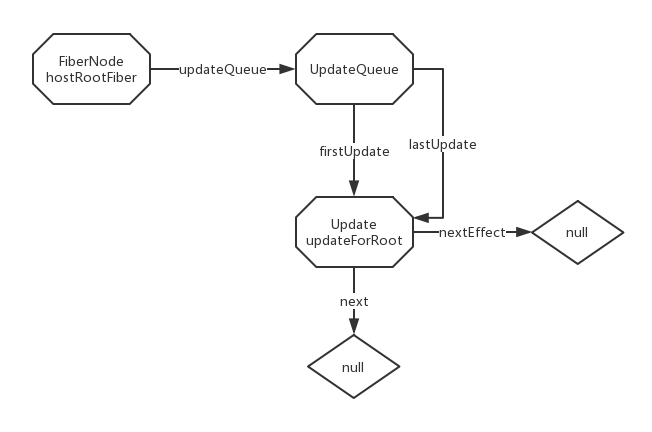
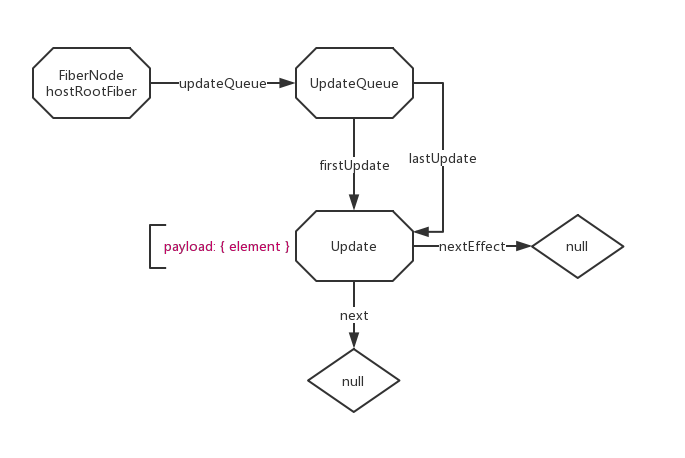
react: add itpt of ReactUpdate & ReactUpdateQueue

Changed region(s): [[0.0307, 0.0602, 0.9509, 0.6319], [0.4294, 0.662, 0.6135, 0.9329]]

diff --git a/07.React 勘测笔记 IV - ReactUpdateQueue.md b/07.React 勘测笔记 IV - ReactUpdateQueue.md
@@ -1,10 +1,197 @@
 # React 勘测笔记 IV - ReactUpdateQueue
 
-:dolphin: [ReactUpdateQueue.js](https://github.com/TAUnionOtto/react-interpretation/blob/master/packages、react-reconciler、src、ReactUpdateQueue.js)
+:dolphin: [ReactUpdateQueue.js](https://github.com/TAUnionOtto/react-interpretation/blob/master/packages/react-reconciler/src/ReactUpdateQueue.js)
 
 ## ReactUpdate 的结构
 
-:dolphin: [type Update<State>](https://github.com/TAUnionOtto/react-interpretation/blob/master/packages/react-reconciler/src/ReactFiberReconciler.js#L109)
+:dolphin: [type Update<State>](https://github.com/TAUnionOtto/react-interpretation/blob/master/packages/react-reconciler/src/ReactUpdateQueue.js#L109)
 
 ## ReactUpdateQueue 的结构
-:dolphin: [type ReactUpdateQueue](https://github.com/TAUnionOtto/react-interpretation/blob/master/packages/react-reconciler/src/ReactFiberReconciler.js#L115)
+
+:dolphin: [type ReactUpdateQueue](https://github.com/TAUnionOtto/react-interpretation/blob/master/packages/react-reconciler/src/ReactUpdateQueue.js#L115)
+
+## 一般情况下的调用过程
+
+单次 `ReactDOM.render` 和 `setState` 调用 UpdateQueue 的流程大致相同，都是：
+
+```js
+createUpdate -> enqueueUpdate -> processUpdateQueue -> commitUpdateQueue
+```
+
+其中各方法调用的时机和两者生成的 update 都不尽相同，具体有兴趣的可以自行打断点查阅。
+
+`setState` 触发的流程其实有两种情况：
+
+- DOM event listener 触发的 `setState`
+
+  由 `setState` 调用 create 和 enqueue；由 listener 调用 processUpdateQueue。
+
+- setTimeout 触发的 `setState`
+
+  由 `setState` 调用 create 和 enqueue；且由 `setState` 调用 processUpdateQueue。
+
+这两种流程下，如果传递了 `setState` 的第二个参数（即执行完成后的回调），则最后会调用 commitUpdateQueue。
+
+<!-- ### ReactDOM.render
+
+- ReactDOM.render
+- :dolphin: [ReactFiberReconciler.scheduleRootUpdate](https://github.com/TAUnionOtto/react-interpretation/blob/master/packages/react-reconciler/src/ReactFiberReconciler.js#L115)
+  - createUpdate
+  - enqueueUpdate
+    - createUpdateQueue
+  - :dolphin: [ReactFiberReconciler.js @function scheduleWork](https://github.com/TAUnionOtto/react-interpretation/blob/master/packages/react-reconciler/src/ReactFiberReconciler.js#L1855)
+  - call to :dolphin: [ReactFiberReconciler.js @function performWorkOnRoot](https://github.com/TAUnionOtto/react-interpretation/blob/master/packages/react-reconciler/src/ReactFiberReconciler.js#L2382)
+    - :dolphin: [ReactFiberReconciler.js @function renderRoot](https://github.com/TAUnionOtto/react-interpretation/blob/master/packages/react-reconciler/src/ReactFiberReconciler.js#L1223)
+      - call to :dolphin: [ReactFiberBeginWork.beginWork](https://github.com/TAUnionOtto/react-interpretation/blob/master/packages/react-reconciler/src/ReactFiberBeginWork.js#L1893)
+      - call :dolphin: [ReactFiberBeginWork.js @function updateHostRoot](https://github.com/TAUnionOtto/react-interpretation/blob/master/packages/react-reconciler/src/ReactFiberBeginWork.js#L838)
+        - processUpdateQueue
+    - :dolphin: [ReactFiberReconciler.js @function completeRoot](https://github.com/TAUnionOtto/react-interpretation/blob/master/packages/react-reconciler/src/ReactFiberReconciler.js#L2459)
+      - call to commitUpdateQueue
+
+### setTimeout 中的 setState
+
+- Component.prototype.setState
+- :dolphin: [ReactFiberClassComponent.js @classComponentUpdater.enqueueSetState](https://github.com/TAUnionOtto/react-interpretation/blob/master/packages/react-reconciler/src/ReactFiberClassComponent.js#L183)
+  - createUpdate
+  - enqueueUpdate
+    - createUpdateQueue
+  - :dolphin: [ReactFiberReconciler.js @function scheduleWork](https://github.com/TAUnionOtto/react-interpretation/blob/master/packages/react-reconciler/src/ReactFiberReconciler.js#L1855)
+  - :dolphin: [ReactFiberReconciler.js @function requestWork](https://github.com/TAUnionOtto/react-interpretation/blob/master/packages/react-reconciler/src/ReactFiberReconciler.js#L2117)
+  - :dolphin: [ReactFiberScheduler.renderRoot](https://github.com/TAUnionOtto/react-interpretation/blob/master/packages/react-reconciler/src/ReactFiberScheduler.js#L1223)
+  - call to :dolphin: [ReactFiberBeginWork.beginWork](https://github.com/TAUnionOtto/react-interpretation/blob/master/packages/react-reconciler/src/ReactFiberBeginWork.js#L1893)
+  - call :dolphin: [ReactFiberBeginWork.js @function updateClassComponent](https://github.com/TAUnionOtto/react-interpretation/blob/master/packages/react-reconciler/src/ReactFiberBeginWork.js#L624)
+  - call :dolphin: [ReactFiberClassComponent.updateClassInstance](https://github.com/TAUnionOtto/react-interpretation/blob/master/packages/react-reconciler/src/ReactFiberClassComponent.js#L1002)
+    - resetHasForceUpdateBeforeProcessing
+    - processUpdateQueue
+    - checkHasForceUpdateAfterProcessing
+
+### event callback 中的 setState
+
+[ReactFiberScheduler.js @function requestWork](https://github.com/TAUnionOtto/react-interpretation/blob/master/packages/react-reconciler/src/ReactFiberScheduler.js#L2117) 中 `isUnbatchingUpdates` 为 `false`，故没有执行 `performWorkOnRoot`。
+
+这里 `performWorkOnRoot` 最终是由 [ReactDOMEventListener.js @function dispatchInteractiveEvent](https://github.com/TAUnionOtto/react-interpretation/blob/master/packages/react-dom/src/events/ReactDOMEventListener.js#L184) 触发的。
+
+换言之，`setTimeout` 中 `processUpdateQueue` 会被调用若干次，而 event callback 中，`processUpdateQueue` 仅会被调用一次。 -->
+
+## enqueueUpdate
+
+从上文所知，如果不考虑 `fiber.alternate`，第一次 `enqueueUpdate` 之后，我们可以得到如下的结构：
+
+![fiber_after_enqueue_update](./static/fiber_after_enqueue_update.png)
+
+我们可以注册这样一个回调，构造一个简单的、拥有成多个 Update 节点的 UpdateQueue；为了展示 UpdateQueue 中 effect 的作用，我们给其中两个 `setState` 添加回调。
+
+```js
+// code [A]
+onClickCounter = () => {
+    this.setState(
+      (state) => { return { count: state.count + 1 } },
+      () => { console.log('updateA') },
+    );
+    this.setState((state) => { return { count: state.count + 1 } });
+    this.setState(
+      (state) => { return { count: state.count + 1 } },
+      () => { console.log('updateC') },
+    );
+}
+```
+
+三次 enqueue 后，我们会得到一个如下的结构：
+
+![fiber_after_enqueue_3_times.png](./static/fiber_after_enqueue_3_times.png)
+
+## processUpdateQueue
+
+这里个方法就是在执行所有的 update。
+
+- ensureWorkInProgressQueueIsAClone
+
+  确保 work-in-progress 中的 queue 是一份克隆，同时后续操作是首先作用在这份克隆上而非 current.updateQueue 上的。
+
+- 遍历列表
+
+  根据 update 的 expirationTime 确认其优先程度。
+
+  高优先级的 update 会首先执行 `getStateFromUpdate` 方法。这个方法会根据 update.tag 操作 queue 的 state：
+
+  - 默认执行 `UpdateState`，即将 `update.payload` 和 state 合并，或执行 `update.payload` 函数，将结果和 state 合并。
+  - `ReplaceState`，将 `update.payload`（同样的当其为函数时将其运行结果）替换当前 state。
+  - `CaptureUpdate`，在 fiber 报错时会 enqueue 这种类型的 update，这里会给 fiber 打上相应的 tag，不操作 state。
+  - `ForceUpdate`，将 `hasForceUpdate` 置为 `true`，具体作用见 :dolphin: [ReactFiberClassComponent.js](https://github.com/TAUnionOtto/react-interpretation/blob/master/packages/react-reconciler/src/ReactFiberClassComponent.js)，不操作 state。
+
+  之后，将有 `callback` 的 update 放入 effect 链表尾部。effect 链表会在 `commitUpdateQueue` 中被调用。
+
+  低优先级的会被跳过，*第一个*被跳过的 update 会被记为 `newFirstUpdate`，这时的 state 会被记为 `newBaseState`，也就是说，以后再执行这个 queue，其会从第一个被跳过的 update 开始重新遍历。同时 `newExpirationTime` 会记录这些被跳过的 update 中最高的优先级，以保证下一次 updateQueue 被及时的遍历。
+
+  [A] 中生成的 update 优先级均为最高的 `Sync`，tag 均为默认的 `UpdateState`（0），故没有 update 会被跳过。
+
+  我们会得到如下结果：
+
+  ![fiber_after_process_loop_1](./static/fiber_after_process_loop_1.png)
+
+- 遍历错误捕获列表
+
+  updateQueue 除了维护普通的 update 链表外，还会维护一个存放 fiber 报错相关的 update 链表。可以通过 `enqueueCapturedUpdate` 向 updateQueue 中添加这种节点。比如 :dolphin: [ReactFiberUnwindWork.throwException](https://github.com/TAUnionOtto/react-interpretation/blob/master/packages/react-reconciler/src/ReactFiberUnwindWork.js#L190).
+
+  错误捕获 update 的添加和遍历和上文遍历普通的 update 链表没有大的区别。
+
+  对错误捕获的遍历同样会影响 state 和 `newExpirationTime`，但其对低优先级 update 和 effect 的相关操作是与遍历普通节点相独立的，其操作的是 `newFirstCapturedUpdate`、`firstCapturedEffect` 和 `lastCapturedEffect`。
+
+- 更新 UpdateQueue
+
+  为了将 `workInProgress` 标记为已完成，或维持队列中可能会有低优先级的 updates，最后会进行一些对 UpdateQueue 的更新。
+
+  最终，一个已完成的 UpdateQueue 最终会使 `workInProgress.expirationTime === NoWork`；
+
+  未完成的 UpdateQueue 会更新 `baseState`、`firstUpdate` 和 `firstCapturedUpdate`，并将 `workInProgress.expirationTime` 置为被跳过的 update 中最高的优先级，以供下一次运行。
+
+## setState 的各种表现
+
+通过分析 `enqueueUpdate` 和 `processUpdateQueue`，我们可以解释以下代码的区别：
+
+```js
+constructor(props) {
+  super(props)
+
+  this.state = { count: 1 }
+}
+
+// callback A，最终 this.state.count = 2
+onClickCounter = () => {
+  this.setState({ count: this.state.count + 1 });
+  this.setState({ count: this.state.count + 1 });
+  this.setState({ count: this.state.count + 1 });
+}
+
+// callback B，最终 this.state.count = 4
+onClickCounter = () => {
+  setTimeout(() => {
+    this.setState({ count: this.state.count + 1 });
+    this.setState({ count: this.state.count + 1 });
+    this.setState({ count: this.state.count + 1 });
+  }, 500);
+}
+
+// callback C，最终 this.state.count = 4
+onClickCounter = () => {
+  this.setState((state) => { return { count: state.count + 1 } });
+  this.setState((state) => { return { count: state.count + 1 } });
+  this.setState((state) => { return { count: state.count + 1 } });
+}
+```
+
+[A] 实际上往队列里加入了三个 `payload = { count: 2 }` 的 update，每个 update 计算 state 后都会将 `count` 更新为 2，故最后结果依然是 2；
+
+[B] 实际执行了三次 `processUpdateQueue`，虽然 UpdateQueue 本身被复用了，但是实际上是运行了三次仅有一个 update 的 UpdateQueue。每次执行 `processUpdateQueue` 时，UpdateQueue 初始的 `baseState` 分别为 2、3、4。
+
+[C] 实际上往队列里加入了三个 `payload = (state) => { return { count: state.count + 1 } }` 的 update，也就是说每个 update 在计算时，都使用到已经加 1 的 `resultState`，故结果是 4。
+
+三者的调用栈异同这里请自行考察，在后面的文章中有机会我会专门分析 `setState` 的调用过程。
+
+## commitUpdateQueue
+
+这个方法实际上只做了三件事：
+
+- 若错误捕获 update 已处理完毕或不需要处理，重置错误捕获相关的字段。
+- 处理普通 update 和错误捕获 update 的 effect 队列，即他们所需要执行的回调。比如确保 `setState` 的回调在文档标识的时机触发。
+- 重置各 effect 队列。

diff --git a/05.React 勘测笔记 II - render 的“准备”.md b/05.React 勘测笔记 II - render 的“准备”.md
@@ -57,13 +57,13 @@ render(
 - 初始化 `container._reactRootContainer`
 
   `container` 没有 `_reactRootContainer` 时进行初始化，调用栈：
-  
+
   - :dolphin: [`legacyCreateRootFromDOMContainer`](https://github.com/TAUnionOtto/react-interpretation/blob/master/packages/react-dom/src/client/ReactDOM.js#L508)
 
     首先清除 `rootContainer` 内所有子节点，随后新建一个 `ReactRoot` 并返回。
-  
+
   - :dolphin: [`ReactDOM.js @class ReactRoot`](https://github.com/TAUnionOtto/react-interpretation/blob/master/packages/react-dom/src/client/ReactDOM.js#L365)
-  
+
     调用 `ReactFiberReconciler.createContainer` 创建一个 `OpaqueRoot` 对象，并赋值到成员变量 `_internalRoot`。
 
     ReactRoot 有四个成员方法：
@@ -91,7 +91,7 @@ render(
 
   - :dolphin: [`ReactFiber.createHostRootFiber`](https://github.com/TAUnionOtto/react-interpretation/blob/master/packages/react-reconciler/src/ReactFiber.js#L506)
 
-    这里 `isConcurrent` 为 `false`，我们将不对 fiber 的模式做限制。
+    这里 `isConcurrent` 为 `false`，我们将不对 fiber 的模式做限制（`NoContext`）。
 
   - :dolphin: [`ReactFiber.js @function createFiber`](https://github.com/TAUnionOtto/react-interpretation/blob/master/packages/react-reconciler/src/ReactFiber.js#L391)
 

diff --git a/06.React 勘测笔记 III - render 的“运行”.md b/06.React 勘测笔记 III - render 的“运行”.md
@@ -70,7 +70,7 @@ unbatchedUpdates = () => {
     Math.pow(2, 30) - 1 - 1 - ((ms / 10) | 0)
     ```
 
-    即*时间差越大，过期时间越小*，同时*过期时间越小，优先级就越低，期望执行时间就越长*。其中 `Sync = MAX_SIGNED_31_BIT_INT = 2^30 - 1` 即是最大的带符号整数，也是 v8 引擎在 32 位环境下能表示的最大整数。换言之 Sync 同步任务是优先级最高的。
+    即*时间差越大，过期时间越小*，同时*过期时间越小，优先级就越低，期望执行时间就越靠后*。其中 `Sync = MAX_SIGNED_31_BIT_INT = 2^30 - 1` 即是最大的带符号整数，也是 v8 引擎在 32 位环境下能表示的最大整数。换言之 Sync 同步任务是优先级最高的。
 
 - 计算 `expirationTime`：
 
